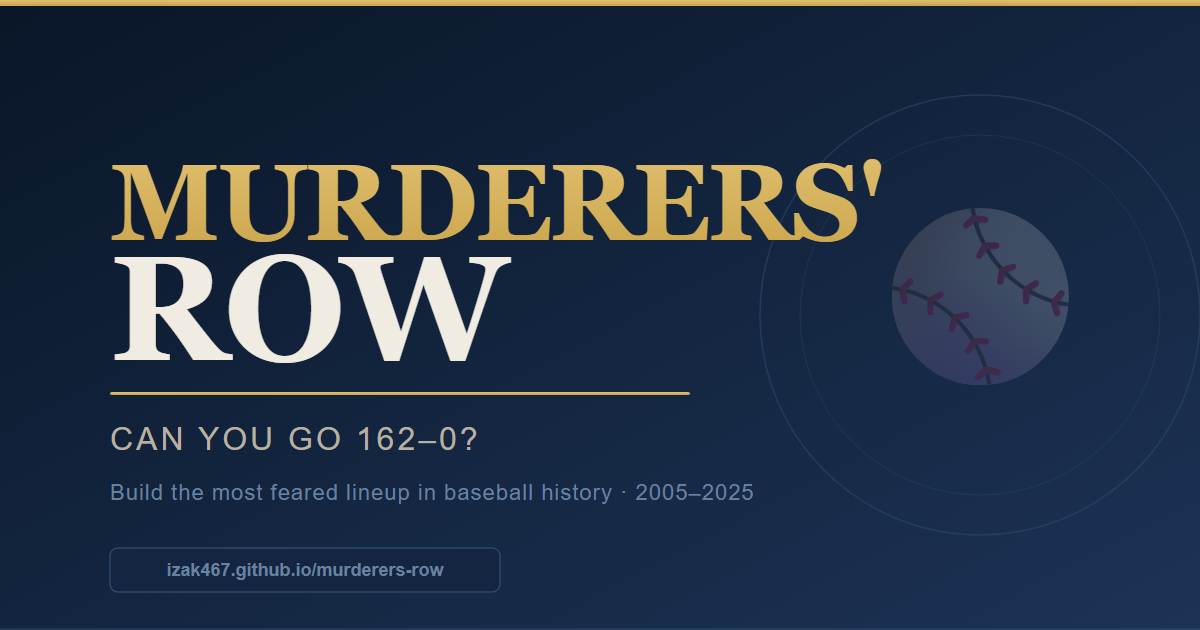
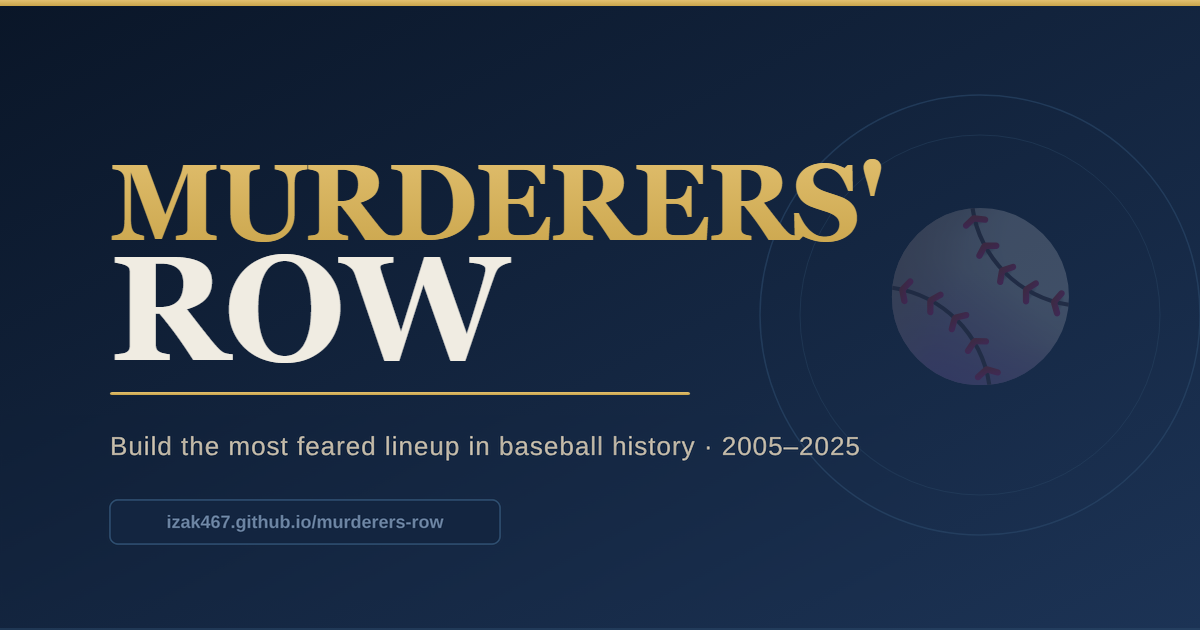
Remove "CAN YOU GO 162-0?" tagline and undefeated framing
Dropped the "CAN YOU GO 162-0?" line from og-image.svg/png (the main
share card) and reflowed the subtagline + URL badge up to fill the
gap. Also reworded the og:description/twitter:description meta tags,
which had the same "see if you can go undefeated" framing.

og-image.png was rebuilt by compositing: the title/ring/ball region
came from the existing shipped PNG untouched (this session's Chromium
doesn't have real Georgia installed, and re-rendering that region from
the SVG made "MURDERERS'" run wider and clip against the decorative
ring), while the tagline/URL-badge region below it was re-rendered
fresh and alpha-composited in.

Changed region(s): [[0.0925, 0.754, 0.4933, 0.9651], [0.0925, 0.6635, 0.74, 0.7238], [0.5242, 0.754, 0.6167, 0.8143]]

diff --git a/index.html b/index.html
@@ -5,7 +5,7 @@
 <meta name="viewport" content="width=device-width, initial-scale=1.0">
 <title>Murderers' Row</title>
 <meta property="og:title" content="Murderers' Row">
-<meta property="og:description" content="Build the most feared lineup in baseball history. Spin random MLB teams and years, draft legends, and see if you can go undefeated.">
+<meta property="og:description" content="Build the most feared lineup in baseball history. Spin random MLB teams and years, draft legends, and build a team no one can touch.">
 <meta property="og:url" content="https://murderers-row.net/">
 <meta property="og:image" content="https://murderers-row.net/og-image.png">
 <meta property="og:image:width" content="1200">
@@ -13,7 +13,7 @@
 <meta property="og:type" content="website">
 <meta name="twitter:card" content="summary_large_image">
 <meta name="twitter:title" content="Murderers' Row">
-<meta name="twitter:description" content="Build the most feared lineup in baseball history. Spin random MLB teams and years, draft legends, and see if you can go undefeated.">
+<meta name="twitter:description" content="Build the most feared lineup in baseball history. Spin random MLB teams and years, draft legends, and build a team no one can touch.">
 <meta name="twitter:image" content="https://murderers-row.net/og-image.png">
 <script src="https://cdn.jsdelivr.net/npm/canvas-confetti@1.9.3/dist/confetti.browser.min.js"></script>
 <script src="https://cdnjs.cloudflare.com/ajax/libs/animejs/3.2.1/anime.min.js"></script>
